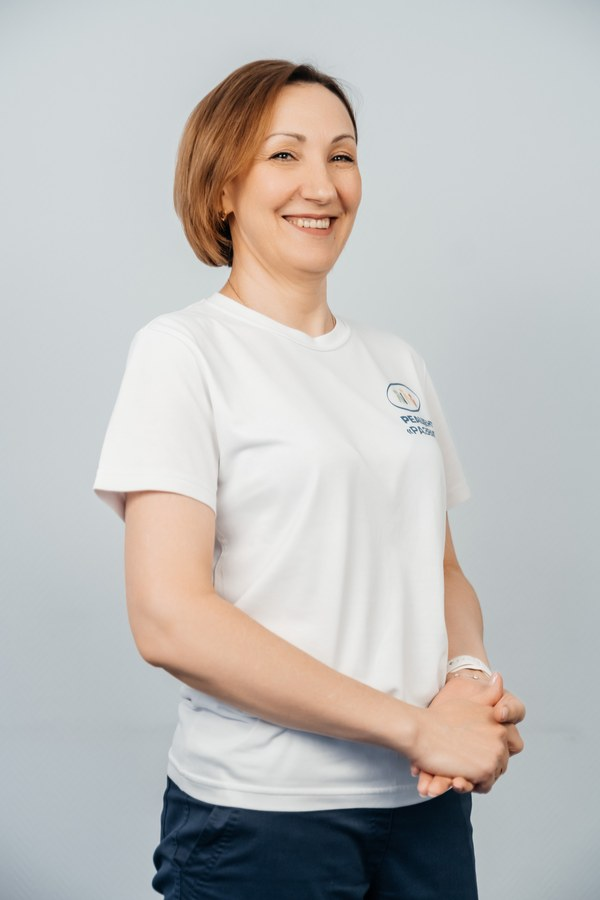
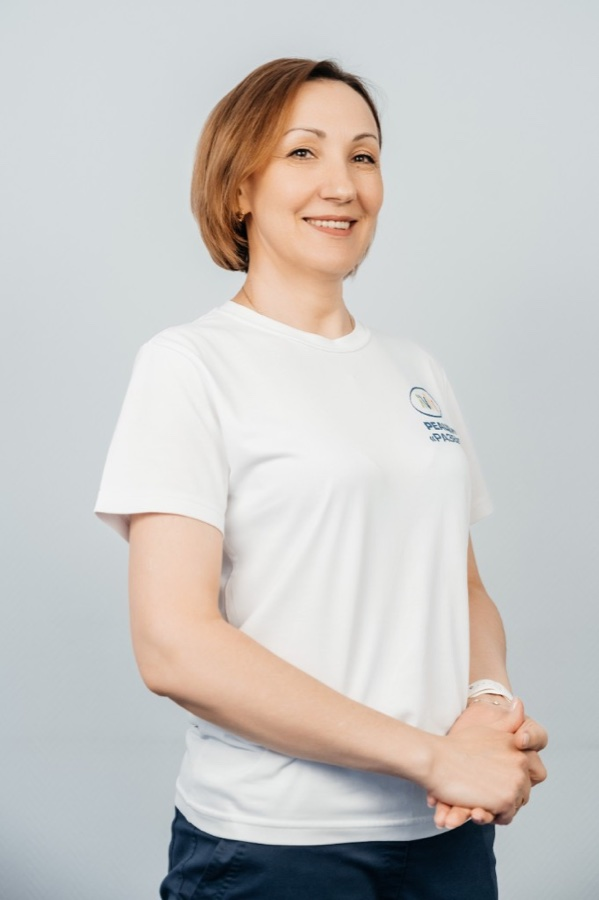
Аватарный формат карточек специалистов и новые портреты

diff --git a/index.html b/index.html
@@ -233,17 +233,17 @@
         .price-note{margin-top:24px;font-size:13px;color:var(--gray);line-height:1.6;padding:16px;background:var(--accent-pale);border-radius:var(--r)}
 
         /* ═══ TEAM ═══ */
-        .team-grid{display:grid;grid-template-columns:repeat(4,1fr);gap:22px}
-        .tcard{background:var(--white);border-radius:22px;overflow:hidden;box-shadow:0 4px 18px rgba(15,47,112,.05);transition:all .35s cubic-bezier(.16,1,.3,1);border:1px solid rgba(15,47,112,.08);position:relative}
-        .tcard:hover{transform:translateY(-8px);box-shadow:0 24px 48px -16px rgba(29,76,170,.18)}
-        .tcard-img{aspect-ratio:3/4;background:var(--net-brand-pale);overflow:hidden;position:relative}
-        .tcard-img img{width:100%;height:100%;object-fit:cover;transition:transform .6s ease}
+        .team-grid{display:grid;grid-template-columns:repeat(4,1fr);gap:20px}
+        .tcard{background:#fff;border-radius:24px;overflow:hidden;box-shadow:0 2px 12px rgba(15,47,112,.04);transition:all .35s cubic-bezier(.16,1,.3,1);border:1px solid rgba(15,47,112,.06);position:relative}
+        .tcard:hover{transform:translateY(-6px);box-shadow:0 18px 38px -14px rgba(29,76,170,.16)}
+        .tcard-img{aspect-ratio:1/1;background:linear-gradient(180deg,#F1F6FF 0%,#E5EEFB 100%);overflow:hidden;position:relative}
+        .tcard-img img{width:100%;height:100%;object-fit:cover;object-position:center 18%;transition:transform .6s ease}
         .tcard:hover .tcard-img img{transform:scale(1.05)}
-        .tcard-spec{position:absolute;top:14px;left:14px;color:#fff;font-size:11px;font-weight:600;padding:5px 11px;border-radius:100px;letter-spacing:.02em;background:var(--net-brand);box-shadow:0 4px 12px rgba(29,76,170,.3)}
+        .tcard-spec{position:absolute;top:auto;bottom:14px;left:14px;color:#fff;font-size:11px;font-weight:600;padding:5px 11px;border-radius:100px;letter-spacing:.02em;background:var(--net-brand);box-shadow:0 4px 12px rgba(29,76,170,.3)}
         .tcard-spec.sk{background:var(--net-sky)}
         .tcard-spec.tl{background:#13B8A0}
         .tcard-spec.cy{background:var(--net-cyan)}
-        .tcard-body{padding:18px}
+        .tcard-body{padding:18px 18px 22px}
         .tcard-name{font-family:var(--heading-font);font-weight:600;font-size:17px;color:var(--net-brand-deep);margin-bottom:4px;line-height:1.25}
         .tcard-role{font-size:13px;color:var(--gray);font-weight:500;margin-bottom:12px;line-height:1.45}
         .tcard-role small{font-size:12px;color:var(--gray-light);font-weight:500}

diff --git a/.context.md b/.context.md
@@ -12,6 +12,7 @@
 - Шрифты: Google Fonts `Inter` и `Nunito`.
 
 ## Текущий статус
+- 2026-05-15: заменены фото специалистов на новые портреты из присланных исходников (Алагян, Текутьева, Киселёва, Чуприна, Катыкин, Стаценко, Полежаева, Острых, Серёдкина, Такова, Акимова). Карточки `.tcard` переведены в квадратный аватарный формат (1/1) с нежно-голубой подложкой `linear-gradient(180deg,#F1F6FF,#E5EEFB)` и бейджем у нижнего края фото; скруглён `border-radius:24px`, мягче тень, `gap:20px`.
 - 2026-05-15: секция «Наши специалисты» переведена на 4-колоночную сетку карточек (`.tcard`) как в макете `mockup-hero.html` — большое фото 3/4, цветной бейдж по роли, hover-приподнятие; старый `.team-slider` со стрелками и крупный групповой блок убраны. В блоке «Микротоковая рефлексотерапия — основа реабилитации» фото заменено на правильный кадр процедуры (`img/method-procedure.jpg`).
 - 2026-05-14: палитра всего `index.html` выровнена под мокап (синий бренд сети `#1D4CAA`, sky/cyan, фон `#F8FAFC`, заголовки Geologica); бирюзовые градиенты заменены на сине-голубые.
 - 2026-05-14: главная `index.html` — hero как в макете: мягкий sky-фон, капсулы с `img/gan-*.jpg`, кросс-фейд и лёгкий параллакс; текст колонки прижат к верху (`align-items:start`, блок `.hero-copy`); фото массажа на кушетке (`gan-06607`) из ротации убрано; добавлены `robots.txt` и `sitemap.xml`.
